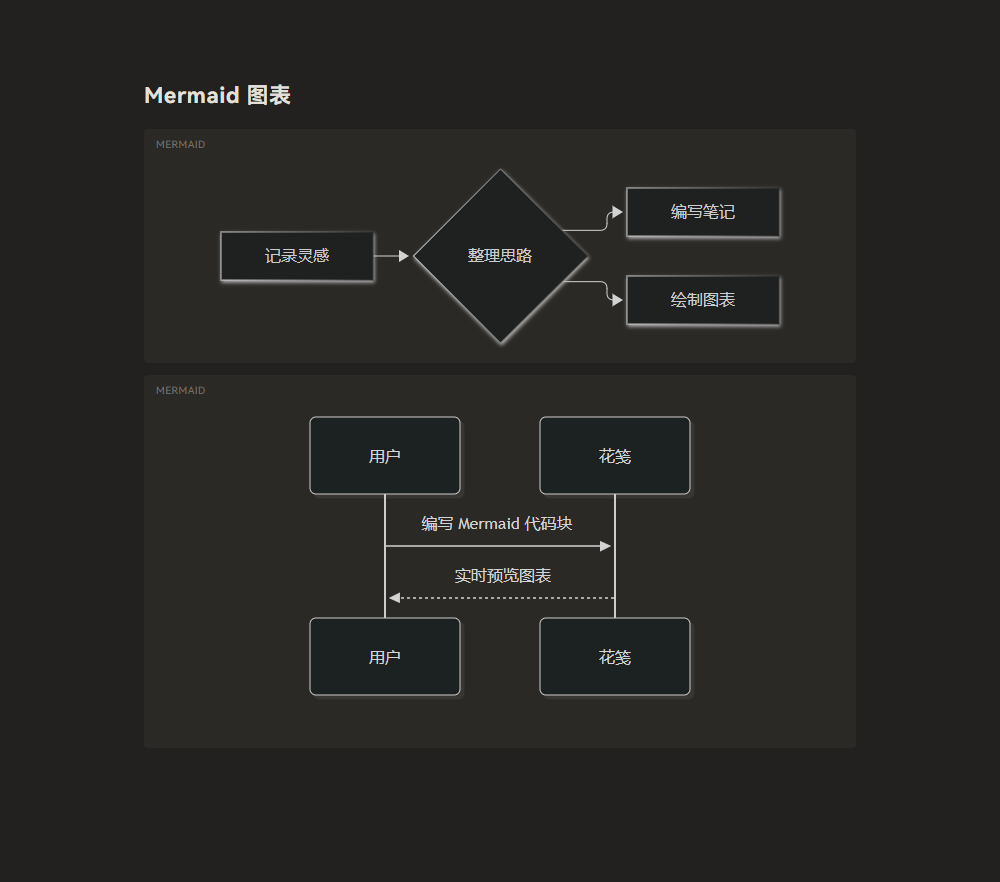
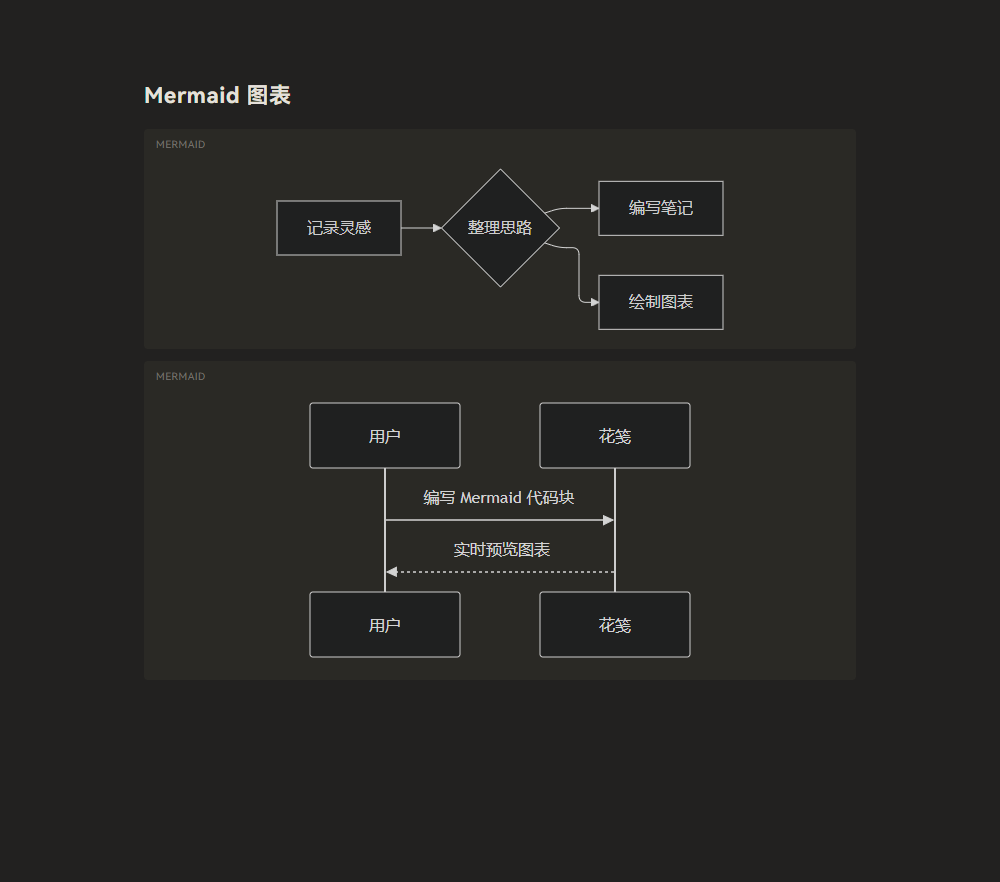
feat: use ELK as the default Mermaid layout

diff --git a/src/features/markdown/mermaid.test.ts b/src/features/markdown/mermaid.test.ts
@@ -1,11 +1,13 @@
 // @vitest-environment jsdom
 import { beforeEach, expect, test, vi } from "vitest";
 import mermaid from "mermaid";
+import elkLayouts from "@mermaid-js/layout-elk";
 import { renderMermaid } from "./mermaid";
 
 vi.mock("mermaid", () => ({
-  default: { initialize: vi.fn(), render: vi.fn() },
+  default: { initialize: vi.fn(), render: vi.fn(), registerLayoutLoaders: vi.fn() },
 }));
+vi.mock("@mermaid-js/layout-elk", () => ({ default: [{ name: "elk", loader: vi.fn() }] }));
 
 beforeEach(() => vi.clearAllMocks());
 
@@ -21,6 +23,7 @@ test("serializes configuration and rendering, uses unique IDs, and removes tempo
       startOnLoad: false,
       securityLevel: "strict",
       suppressErrorRendering: true,
+      layout: "elk",
     });
     expect(config?.secure).toContain("securityLevel");
     await Promise.resolve();
@@ -34,6 +37,10 @@ test("serializes configuration and rendering, uses unique IDs, and removes tempo
     renderMermaid("graph TD; C-->D", true),
   ]);
   expect(new Set(ids).size).toBe(2);
+  expect(mermaid.registerLayoutLoaders).toHaveBeenCalledExactlyOnceWith(elkLayouts);
+  expect(vi.mocked(mermaid.registerLayoutLoaders).mock.invocationCallOrder[0]).toBeLessThan(
+    vi.mocked(mermaid.initialize).mock.invocationCallOrder[0],
+  );
   expect(themes).toEqual(["default", "dark"]);
   expect(document.body.childElementCount).toBe(before);
 });

diff --git a/src/features/markdown/mermaid.ts b/src/features/markdown/mermaid.ts
@@ -1,15 +1,22 @@
 // Initialize and render together: Mermaid's configuration is shared between diagrams.
 let renderQueue: Promise<unknown> = Promise.resolve();
 let nextId = 0;
+let elkRegistered = false;
 
 export function renderMermaid(source: string, dark: boolean): Promise<string> {
   const render = renderQueue.then(async () => {
     const { default: mermaid } = await import("mermaid");
+    if (!elkRegistered) {
+      const { default: elkLayouts } = await import("@mermaid-js/layout-elk");
+      mermaid.registerLayoutLoaders(elkLayouts);
+      elkRegistered = true;
+    }
     mermaid.initialize({
       startOnLoad: false,
       securityLevel: "strict",
       suppressErrorRendering: true,
       theme: dark ? "dark" : "default",
+      layout: "elk",
       flowchart: { htmlLabels: false },
       secure: [
         "secure",

diff --git a/Docs/Mermaid.md b/Docs/Mermaid.md
@@ -2,6 +2,8 @@
 
 在笔记中使用语言为 `mermaid` 的围栏代码块，切换到预览即可显示图表。主窗口、便签窗口和磁贴使用相同的渲染方式，无需启用 HTML 渲染，也无需联网。
 
+使用 Mermaid 11 配合官方 `@mermaid-js/layout-elk` 扩展，默认布局为 **ELK**。流程图等支持可选布局的图表会使用 ELK；时序图等具有专用布局的图表仍使用自己的布局方式。
+
 ````markdown
 ```mermaid
 flowchart LR
@@ -22,6 +24,20 @@ sequenceDiagram
 ````
 
 图表随应用的深浅主题更新。右上角的复制按钮复制 Mermaid 源码；语法错误时显示提示和源码，修改后重新渲染，不影响其他图表或普通代码块。图表以严格安全模式渲染，不启用 Mermaid 的点击回调。
+
+可以通过图表内的配置显式切回 Dagre：
+
+````markdown
+```mermaid
+---
+config:
+  layout: dagre
+---
+flowchart LR
+  A --> B
+  A --> C
+```
+````
 
 以下截图来自 Windows Edge 中的 Markdown 预览组件，非 Tauri 桌面窗口。
 
